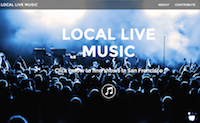
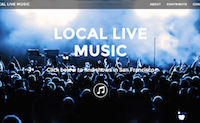
Add TAP images to projects

diff --git a/index.html b/index.html
@@ -113,8 +113,8 @@
 
                   <div id="slider" class="flexslider">
                     <ul class="slides">
-                      <li><img src="img/slider/LocalLiveMusic.png" alt="Slide 1" /></li>
-                      <li><img src="img/slider/slide2.jpg" alt="Slide 2" /></li>
+                      <li><img src="img/slider/LocalLiveMusic-full.png" alt="Slide 1" /></li>
+                      <li><img src="img/slider/TAP-full.png" alt="Slide 2" /></li>
                       <li><img src="img/slider/slide3.jpg" alt="Slide 3" /></li>
                     </ul>
                   </div> <!-- #slider -->
@@ -122,7 +122,7 @@
                   <div id="carousel" class="flexslider">
                     <ul class="slides">
                       <li><img src="img/slider/LocalLiveMusic-thumb.png" alt="Thumbnail 1" /></li>
-                      <li><img src="img/slider/thumb2.jpg" alt="Thumbnail 2" /></li>
+                      <li><img src="img/slider/TAP-thumb.png" alt="Thumbnail 2" /></li>
                       <li><img src="img/slider/thumb3.jpg" alt="Thumbnail 3" /></li>
                     </ul>
                   </div>  <!-- #carousel -->
